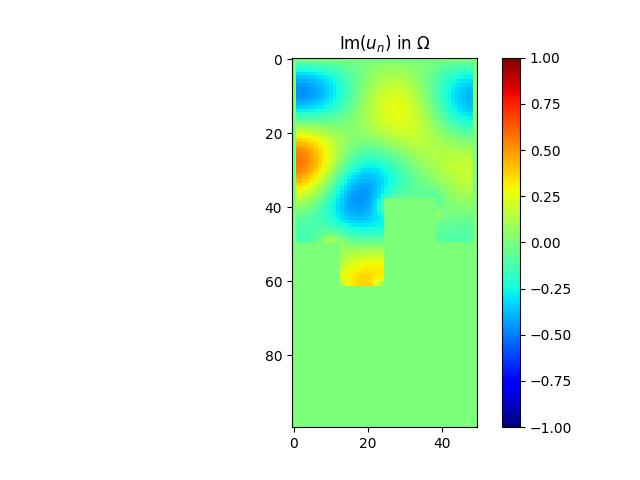
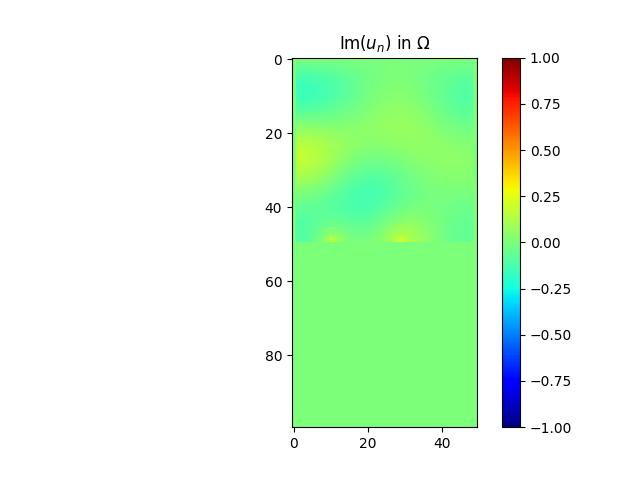
dgx

Changed region(s): [[0.4375, 0.125, 0.75, 0.625]]

diff --git a/demo_control_polycopie2023.py b/demo_control_polycopie2023.py
@@ -6,6 +6,7 @@ import matplotlib.pyplot as plt
 import numpy as np
 import os
 from tqdm.auto import tqdm
+import pickle
 
 # MRG packages
 import _env
@@ -14,7 +15,7 @@ import processing
 import postprocessing
 
 
-def compute_gradient_descent(chi, grad, domain, mu):
+"""def compute_gradient_descent(chi, grad, domain, mu):
     d = np.roll(grad, 1, axis=1)
     d[:, 0] = 0
 
@@ -31,7 +32,66 @@ def compute_gradient_descent(chi, grad, domain, mu):
     
     _chi = chi - mu * _grad
     _chi = processing.set2zero(_chi, domain)
-    return _chi
+    return _chi"""
+    
+def BelongsInteriorDomain(node):
+	if (node < 0):
+		return 1
+	if node == 3:
+		return 2
+	else:
+		return 0
+
+
+def compute_gradient_descent(chi, grad, domain, mu):
+	"""This function makes the gradient descent.
+	This function has to be used before the 'Projected' function that will project
+	the new element onto the admissible space.
+	:param chi: density of absorption define everywhere in the domain
+	:param grad: parametric gradient associated to the problem
+	:param domain: domain of definition of the equations
+	:param mu: step of the descent
+	:type chi: np.array((M,N), dtype=float64
+	:type grad: np.array((M,N), dtype=float64)
+	:type domain: np.array((M,N), dtype=int64)
+	:type mu: float
+	:return chi:
+	:rtype chi: np.array((M,N), dtype=float64
+
+	.. warnings also: It is important that the conditions be expressed with an "if",
+			not with an "elif", as some points are neighbours to multiple points
+			of the Robin frontier.
+	"""
+
+	(M, N) = np.shape(domain)
+	# for i in range(0, M):
+	# 	for j in range(0, N):
+	# 		if domain_omega[i, j] != _env.NODE_ROBIN:
+	# 			chi[i, j] = chi[i, j] - mu * grad[i, j]
+	# # for i in range(0, M):
+	# 	for j in range(0, N):
+	# 		if preprocessing.is_on_boundary(domain[i , j]) == 'BOUNDARY':
+	# 			chi[i,j] = chi[i,j] - mu*grad[i,j]
+	# print(domain,'jesuisla')
+	#chi[50,:] = chi[50,:] - mu*grad[50,:]
+	for i in range(1, M - 1):
+		for j in range(1, N - 1):
+			#print(i,j)
+			#chi[i,j] = chi[i,j] - mu * grad[i,j]
+			a = BelongsInteriorDomain(domain[i + 1, j])
+			b = BelongsInteriorDomain(domain[i - 1, j])
+			c = BelongsInteriorDomain(domain[i, j + 1])
+			d = BelongsInteriorDomain(domain[i, j - 1])
+			if a == 2:
+				chi[i + 1, j] = chi[i + 1, j] - mu * grad[i, j]
+			if b == 2:
+				chi[i - 1, j] = chi[i - 1, j] - mu * grad[i, j]
+			if c == 2:
+				chi[i, j + 1] = chi[i, j + 1] - mu * grad[i, j]
+			if d == 2:
+				chi[i, j - 1] = chi[i, j - 1] - mu * grad[i, j]
+
+	return chi
 
 
 def compute_projected(chi, domain, V_obj):
@@ -132,7 +192,6 @@ def optimization_procedure(domain_omega, spacestep, omega, f, f_dir, f_neu, f_ro
     energy = energy[0:k]
     return chi, energy, u, grad
 
-
 def compute_objective_function(domain_omega, u, spacestep):
     """
     This function compute the objective function:
@@ -160,7 +219,7 @@ if __name__ == '__main__':
     # -- set parameters of the geometry
     N = 50  # number of points along x-axis
     M = 2 * N  # number of points along y-axis
-    level = 1 # level of the fractal
+    level = 0 # level of the fractal
     spacestep = 1.0 / N  # mesh size
 
     # -- set parameters of the partial differential equation
@@ -214,9 +273,9 @@ if __name__ == '__main__':
                 S += 1
     V_0 = 1  # initial volume of the domain
     V_obj = np.sum(np.sum(chi)) / S  # constraint on the density
-    mu = 1  # initial gradient step
+    mu = 1e-3  # initial gradient step
     #mu_min = 1e-5  # minimal gradient step
-    mu_min = 1e-5 # minimal gradient step
+    mu_min = 1e-10 # minimal gradient step
     mu1 = 10**(-5)  # parameter of the volume functional
 
     # ----------------------------------------------------------------------
@@ -236,30 +295,36 @@ if __name__ == '__main__':
     
     _chi = np.ones(chi.shape)
     _chi = processing.set2zero(_chi, domain_omega)
-    _F = np.linspace(0, 1000, 1000)
     _E = []
     _E_grad = []
     _E_start = []
-    for _f in tqdm(_F):
-        _omega = 2*np.pi*_f/340
-        _u = processing.solve_helmholtz(domain_omega, spacestep, _omega, f, f_dir, f_neu, f_rob,
-                        beta_pde, alpha_pde, alpha_dir, beta_neu, beta_rob, _chi.copy()*Alpha)
+    
+    skip = 100
+    
+    with open('optim_alpha_g1_config1.pkl', 'rb') as file:
+        alpha_ISOREL_OMEGA, alpha_ISOREL = pickle.load(file)
+    
+    for _w, _alpha in tqdm(zip(alpha_ISOREL_OMEGA[::skip], alpha_ISOREL[::skip]), total=len(alpha_ISOREL[::skip])):
+        _k = _w/340
+        
+        _u = processing.solve_helmholtz(domain_omega, spacestep, _k, f, f_dir, f_neu, f_rob,
+                        beta_pde, alpha_pde, alpha_dir, beta_neu, beta_rob, _chi.copy()*_alpha)
         _e = compute_objective_function(domain_omega, _u, spacestep)
         _E.append(_e)
         
-        _u_start = processing.solve_helmholtz(domain_omega, spacestep, _omega, f, f_dir, f_neu, f_rob,
+        _u_start = processing.solve_helmholtz(domain_omega, spacestep, _k, f, f_dir, f_neu, f_rob,
                         beta_pde, alpha_pde, alpha_dir, beta_neu, beta_rob, alpha_rob)
         _e_start = compute_objective_function(domain_omega, _u_start, spacestep)
         _E_start.append(_e_start)
     
-        chi, energy, u, grad = optimization_procedure(domain_omega, spacestep, _omega, f, f_dir, f_neu, f_rob,
+        chi, energy, u, grad = optimization_procedure(domain_omega, spacestep, _k, f, f_dir, f_neu, f_rob,
                                                         beta_pde, alpha_pde, alpha_dir, beta_neu, beta_rob, alpha_rob,
-                                                        Alpha, mu, chi, V_obj)
+                                                        _alpha, mu, chi, V_obj)
         _E_grad.append(np.min(energy))
     plt.figure()
-    plt.plot(_F, _E, label='absorbent everywhere')
-    plt.plot(_F, _E_grad, label='gradient descent')
-    plt.plot(_F, _E_start, label='start point')
+    plt.plot(alpha_ISOREL_OMEGA[::skip]/2/np.pi, _E, label='absorbent everywhere')
+    plt.plot(alpha_ISOREL_OMEGA[::skip]/2/np.pi, _E_grad, label='gradient descent')
+    plt.plot(alpha_ISOREL_OMEGA[::skip]/2/np.pi, _E_start, label='start point')
     plt.xlabel('frequency')
     plt.ylabel('energy')
     plt.yscale('log')
